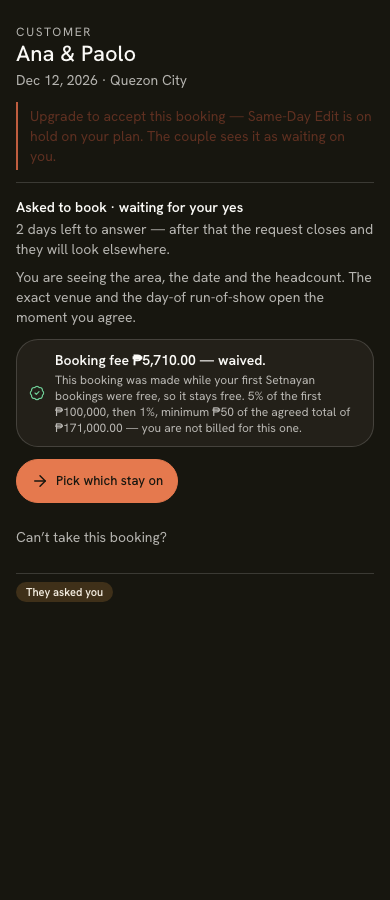
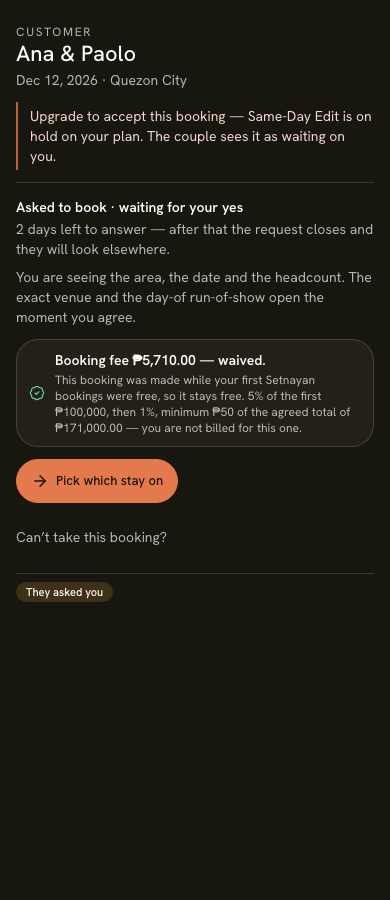
fix(booking-ask): the refused line reads in dark — drop the double-inverting dark: override
Coordinator review of #7374: the held-ask red line was dark red on
near-black. Cause: the danger ramp is already mirrored under html.dark
(globals.css, 100 <-> 900), so `text-danger-900` is #F4D7C9 in dark; the
older `dark:text-danger-100` resolved to the mirrored 100 = #5F3021 —
inverted twice. 1.67:1 → 13.31:1 on the dark page. Light unchanged.

- LockAnswerLine reads the mirrored ramp alone (no new hex, no new token)
- guard in a-held-ask-offers-the-pick (override put back → RED)
- supplier-refused-yes re-shot in dark at 390/820/1440

Changed region(s): [[0.0615, 0.1244, 0.8923, 0.1867], [0.9231, 0.1244, 0.9538, 0.1556]]

diff --git a/apps/web/app/vendor-dashboard/clients/[eventId]/_components/a-held-ask-offers-the-pick.test.ts b/apps/web/app/vendor-dashboard/clients/[eventId]/_components/a-held-ask-offers-the-pick.test.ts
@@ -64,6 +64,10 @@ test('the red line names the service and carries no link', async () => {
   assert.match(named.text, /^Upgrade to accept this booking — Same-Day Edit is on hold on your plan\./);
   const html = renderToStaticMarkup(React.createElement(LockAnswerLine, { notice: named }));
   assert.doesNotMatch(html, /<a\b/, 'the pill is the one door — no link inside the red line');
+  // 🌙 The danger ramp is mirrored under html.dark (100 ↔ 900), so a `dark:text-danger-1xx` override inverts it twice
+  // and the line goes dark red on near-black (coordinator review of #7374). The line reads the mirrored ramp alone.
+  assert.match(html, /text-danger-900/);
+  assert.doesNotMatch(html, /dark:text-danger-/, 'a dark: override on the mirrored ramp draws the line dark-on-dark');
   // Unknown → still a sentence, never an empty name.
   assert.match(lockAgreeNotice('service_on_hold')!.text, /— the service they asked for is on hold/);
 });

diff --git a/apps/web/app/vendor-dashboard/clients/[eventId]/_components/booking-ask-panel.tsx b/apps/web/app/vendor-dashboard/clients/[eventId]/_components/booking-ask-panel.tsx
@@ -178,8 +178,11 @@ export function LockAnswerLine({ notice }: { notice: LockAnswerNotice }) {
       role={notice.tone === 'refused' ? 'alert' : 'status'}
       data-lock-answer={notice.tone}
       // A status line, not a card (2026-10-11 look: frames only on what you press).
+      // 🌙 No `dark:` override: the danger ramp is already mirrored under html.dark (globals.css, 100 ↔ 900), so
+      // `text-danger-900` reads #F4D7C9 on the dark page. The old `dark:text-danger-100` inverted it TWICE — back to
+      // the deep #5F3021, dark red on near-black.
       className={`mt-3 border-l-2 py-1 pl-3 text-sm ${
-        notice.tone === 'refused' ? 'border-danger-500 text-danger-900 dark:text-danger-100' : 'border-mulberry text-ink'
+        notice.tone === 'refused' ? 'border-danger-500 text-danger-900' : 'border-mulberry text-ink'
       }`}
     >
       {notice.text}
